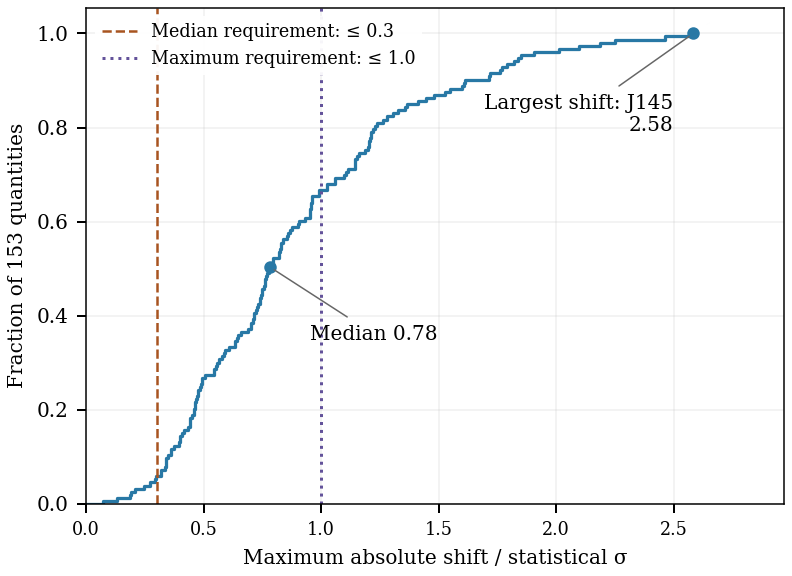
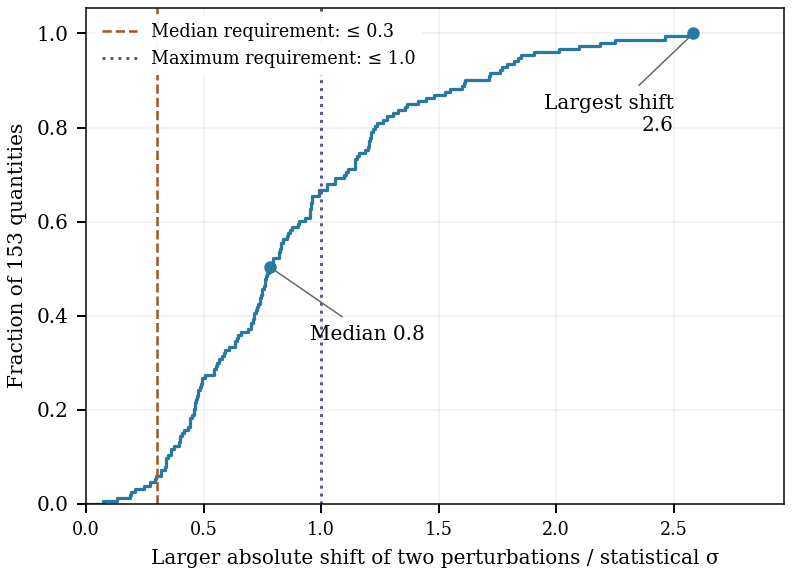
[figures] Clarify rounding-study population and statistical scale
Checks: 21 passed

diff --git a/docs/analysis-note/figures/methods_short/make_figures.py b/docs/analysis-note/figures/methods_short/make_figures.py
@@ -230,6 +230,14 @@ def rounding_figure() -> dict:
                 "argmax": names[int(shifts.argmax())]}
     expected = assessment["A3"]["data_rounding_probe_over_data_sigma"]
     assert measured == expected == record["computed"]
+    study_replicas = assessment["data"]["data_boot_replicas"]
+    reported_replicas = read(
+        "docs/orchestration/state/measurement-paper/5d-community-20261024/s1/readout/s1_assembly.json"
+    )["meta"]["stat_replicas"]
+    assert study_replicas == 100 and reported_replicas == 50
+    definition = read("nd-unfolding/gbdt_model_dependence/definition.json")
+    assert len(definition["reported"]["EW"]) == 42
+    assert sum(definition["reported"]["EW"]) == 39
     criteria = contract["criteria"]
     median_limit = criteria["rounding_median_max_sigma"]
     maximum_limit = criteria["rounding_max_sigma"]
@@ -243,23 +251,24 @@ def rounding_figure() -> dict:
                label=f"Maximum requirement: ≤ {maximum_limit:.1f}")
     middle = len(shifts) // 2
     ax.plot(ordered[middle], fraction[middle], "o", color="#2878a5", ms=4)
-    ax.annotate(f"Median {measured['median']:.2f}",
+    ax.annotate(f"Median {measured['median']:.1f}",
                 xy=(ordered[middle], fraction[middle]), xytext=(16, -29),
                 textcoords="offset points", fontsize=8,
                 arrowprops={"arrowstyle": "-", "color": "0.4", "lw": .6})
     ax.plot(measured["max"], 1, "o", color="#2878a5", ms=4)
-    ax.annotate(f"Largest shift: {measured['argmax']}\n{measured['max']:.2f}",
+    ax.annotate(f"Largest shift\n{measured['max']:.1f}",
                 xy=(measured["max"], 1), xytext=(-8, -39),
                 textcoords="offset points", ha="right", fontsize=8,
                 arrowprops={"arrowstyle": "-", "color": "0.4", "lw": .6})
     ax.set(xlim=(0, measured["max"] * 1.15), ylim=(0, 1.055),
-           xlabel="Maximum absolute shift / statistical σ",
+           xlabel="Larger absolute shift of two perturbations / statistical σ",
            ylabel="Fraction of 153 quantities")
     ax.legend(loc="upper left", fontsize=7, frameon=True,
               facecolor="white", edgecolor="none", framealpha=.95)
     ax.grid(alpha=.15)
     save(fig, "paper_rounding_shifts")
-    return {"summary": measured, "median_limit": median_limit,
+    return {"summary": measured, "study_bootstrap_replicas": study_replicas,
+            "reported_stat_replicas": reported_replicas, "median_limit": median_limit,
             "maximum_limit": maximum_limit, "names": names,
             "shift_over_data_sigma": shifts.tolist()}
 

diff --git a/docs/analysis-note/figures/methods_short/captions.tex b/docs/analysis-note/figures/methods_short/captions.tex
@@ -25,6 +25,6 @@
 \begin{figure}
 \centering
 \includegraphics[width=\linewidth]{figures/methods_short/paper_rounding_shifts.pdf}
-\caption{Numerical instability of the reported five-observable estimator. The cumulative distribution shows, for each of the 153 quantities, the larger absolute shift under two rounding-level perturbations of the data, divided by its data-bootstrap statistical standard deviation. The quantities are the 109 joint-cell integrals, 42 $(E_{\mathrm{avail}},W)$ quantities and two totals. Perturbations move inputs within half a float32 unit in the last place while preserving their grid membership; the reference is the same input values represented in float64. The statistical standard deviation is estimated from 100 refitted data-bootstrap replicas. Vertical lines mark the requirements fixed before the test: at most 0.3 statistical standard deviations for the median and 1.0 for the maximum. The observed median and the largest shift, in J145, are marked. Points in this distribution are different quantities, not repeated experiments.}
+\caption{Rounding-level shifts of the reported five-observable estimator. The cumulative distribution shows, for each of the 153 quantities, the larger absolute shift under two rounding-level perturbations of the data, divided by the study's own data-bootstrap statistical standard deviation (100 refitted replicas; the reported statistical block uses 50, section~\ref{sec:cov5d}). The quantities are the 109 supported joint (J) cell integrals, all 42 $(E_{\mathrm{avail}},W)$ cells, including the three outside the support rule used in figure~\ref{fig:prior-response}, and two totals. The edge-safe perturbations hold values on an analysis-grid edge fixed and move other inputs by at most half a float32 unit in the last place; the reference is the same input values represented in float64. Vertical lines mark the requirements fixed before the test: at most 0.3 statistical standard deviations for the median and 1.0 for the maximum. The observed median and largest shift are marked, at the text's precision. Points in this distribution are different quantities, not repeated experiments.}
 \label{fig:rounding-shifts}
 \end{figure}

diff --git a/docs/analysis-note/figures/methods_short/HANDOVER.md b/docs/analysis-note/figures/methods_short/HANDOVER.md
@@ -190,3 +190,17 @@ Deliverables: paper_rounding_shifts.pdf, PNG preview, added rounding block in nu
 new pins, producer function and final captions.tex snippet. Proposed citation position is §6.1
 immediately after the median/max instability statement. director-helper-3 chooses float placement,
 runs integrated/blinded checks, and owns standalone note synchronization/remote-head record.
+
+
+## Rounding figure referee repair
+
+Caption now distinguishes the study's sigma (100 refitted replicas; assess_receipt.json data.data_boot_replicas)
+from the reported statistical block (50; S1 s1_assembly.json meta.stat_replicas), both checked by producer and
+pinned as data. EW population is explicitly all 42, including the three not supported for the prior-response
+plot; the pinned diagnostic definition checks 42 flags with 39 true. The 109 J cells are named supported.
+Median/maximum labels now match the protected text's one decimal (0.8/2.6); full precision stays in numbers.json.
+The plot drops the undefined J145 label, while retaining its exact argmax check in the numerical audit.
+Axis now distinguishes each quantity's larger of TWO shifts from the maximum over quantities.
+Caption describes shifts rather than opening with a conclusion; it states edge-safe behavior exactly as
+s5e_trace.jitter_coords implements it (grid-edge values fixed, other inputs moved within half a float32 ULP).
+Ledger provenance must say recomputed, reproducing the receipt, not original array; no r2_cache was read.
